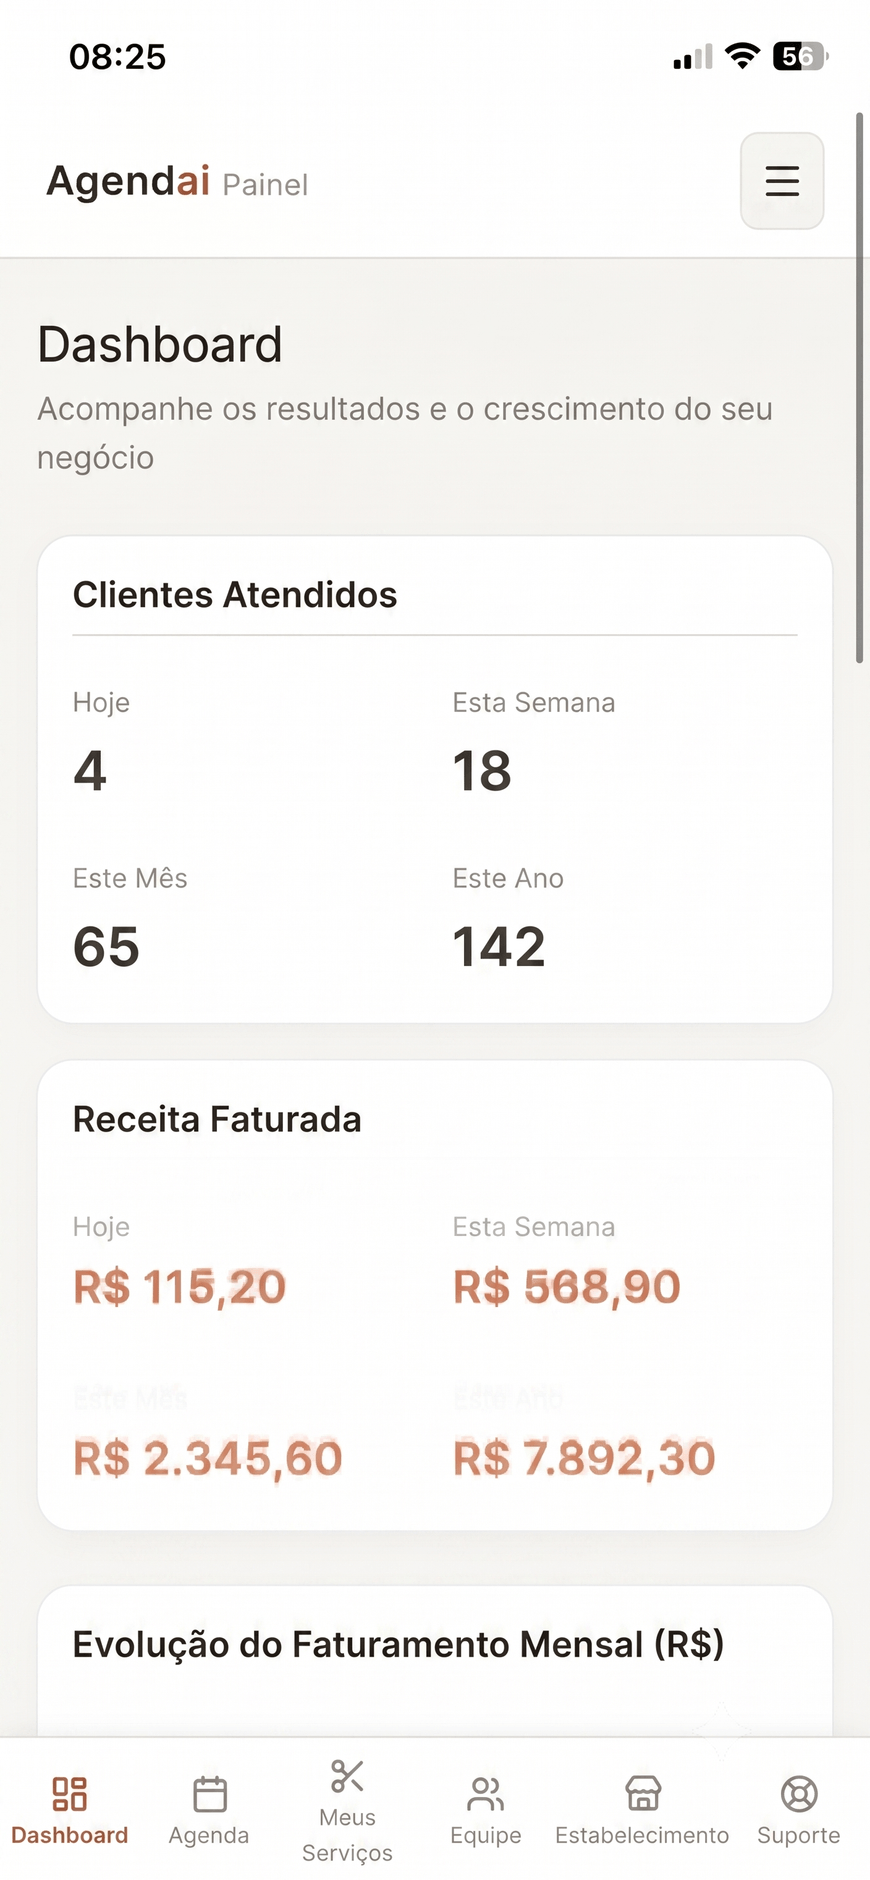
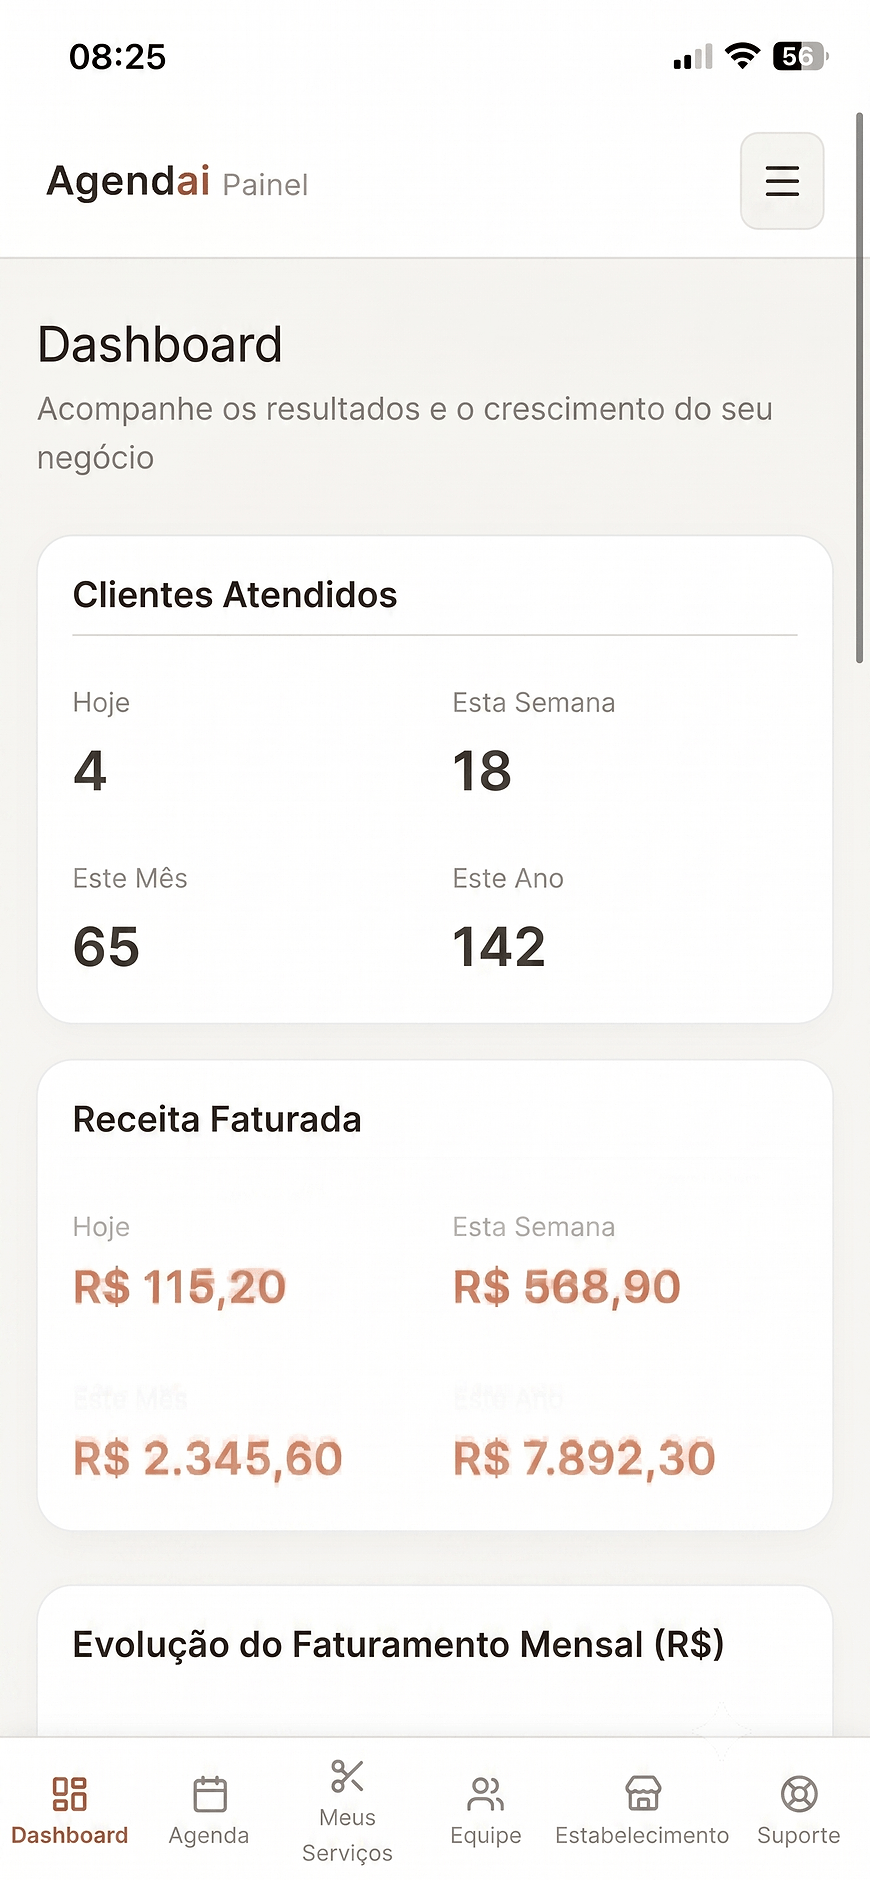
style-add-advanced-glare-and-bezel-shadow-overlays-to-mockup-phone-screen

diff --git a/src/app/page.tsx b/src/app/page.tsx
@@ -219,7 +219,17 @@ export default function Home() {
             <div className="phone-stage">
               <div className="float-card c1"><span className="ico">💈</span><div>Novo agendamento<small>Corte + Barba · 14:30</small></div></div>
               <div className="phone-frame">
-                <div className="phone-screen" style={{ background: 'none', display: 'block', padding: 0 }}>
+                <div className="phone-screen" style={{ background: '#fff', display: 'block', padding: 0, position: 'relative', overflow: 'hidden' }}>
+                  {/* Glare & Bezel Shadow Overlay */}
+                  <div style={{
+                    position: 'absolute',
+                    top: 0, left: 0, right: 0, bottom: 0,
+                    background: 'linear-gradient(135deg, rgba(255,255,255,0.16) 0%, rgba(255,255,255,0) 45%)',
+                    boxShadow: 'inset 0 10px 20px rgba(0,0,0,0.12), inset 0 2px 5px rgba(0,0,0,0.22)',
+                    pointerEvents: 'none',
+                    zIndex: 5,
+                    borderRadius: '34px'
+                  }} />
                   <img 
                     src="/imagem_agendai_modelo.png" 
                     alt="Plataforma Agendai" 
@@ -230,7 +240,9 @@ export default function Home() {
                       objectPosition: 'top', 
                       borderRadius: '34px',
                       imageRendering: '-webkit-optimize-contrast',
-                      transform: 'translateZ(0)'
+                      transform: 'translateZ(0)',
+                      backfaceVisibility: 'hidden',
+                      willChange: 'transform'
                     }} 
                   />
                 </div>